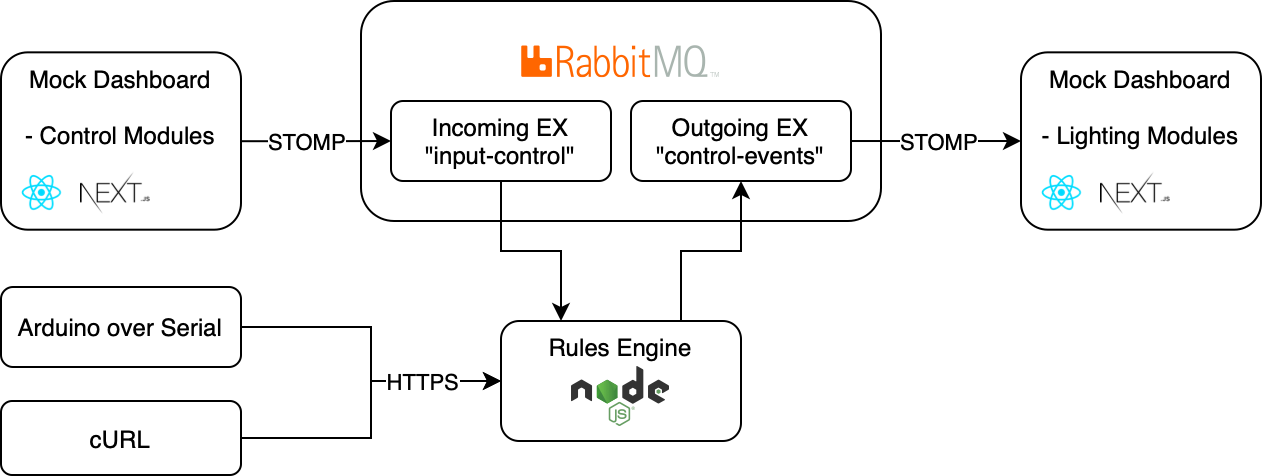
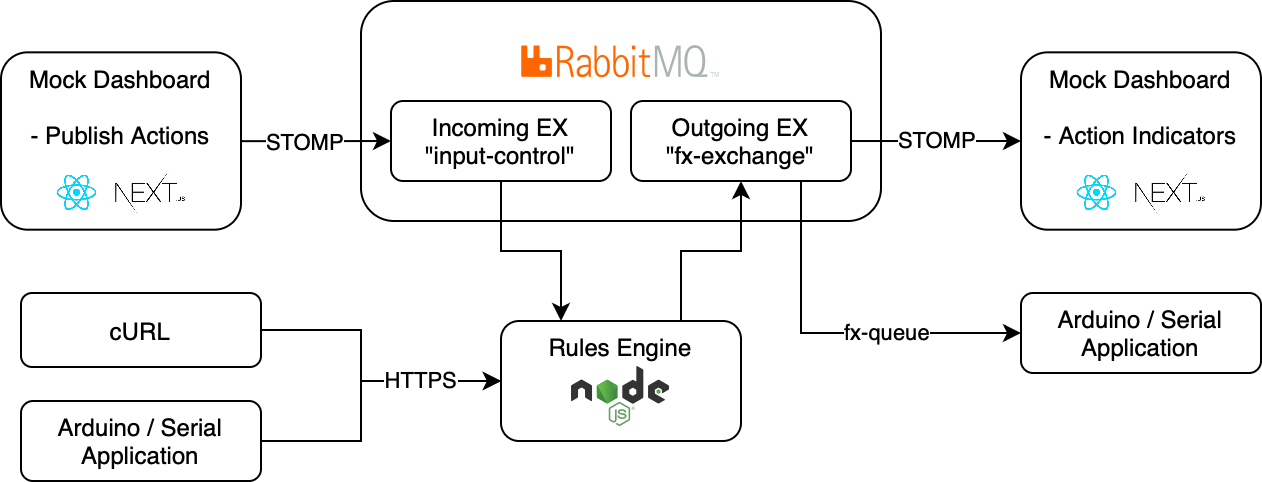
Updated docs

diff --git a/web-client/src/components/Publisher.tsx b/web-client/src/components/Publisher.tsx
@@ -65,7 +65,7 @@ const Publisher = () => {
   } else {
     connectStyle = 'bg-gray-400 border-gray-600 hover:bg-emerald-400'
   }
-  const actionStyle = 'inline p-2 mx-4 bg-white/100 hover:bg-white/90 border-gray-200 hover:border-emerald-300 border border-2 rounded-xl p-4'
+  const actionStyle = 'inline p-3 mx-2 bg-white/100 hover:bg-white/90 border-gray-200 hover:border-emerald-300 border border-2 rounded-xl active:bg-emerald-200'
   return (
     <div
       id="PublisherContainer"
@@ -81,7 +81,7 @@ const Publisher = () => {
       </button>
 }
       {wsConnected && 
-      <div className="inline ml-8 inline-grid grid-cols-3 gap-8">
+      <div className="inline ml-8 inline-grid grid-cols-3 gap-2">
         <button onClick={publishInteractive({deviceType:"taskButton", event: 'button-press', deviceId: "C0C0A"})} className={actionStyle + " text-lg"}>
             Activate <br />
             <span className="text-xs">(Collect Point)</span>

diff --git a/README.md b/README.md
@@ -1,11 +1,24 @@
+# Interactives Playground Demo
+- [Interactives Playground Demo](#interactives-playground-demo)
+- [Instructions for making this work together](#instructions-for-making-this-work-together)
+  - [Sample Video](#sample-video)
+- [Demo Components](#demo-components)
+  - [Web Interfaces](#web-interfaces)
+  - [Arduino + Serial Control](#arduino--serial-control)
+  - [HTTP (General)](#http-general)
+  - [Rules](#rules)
+  - [Other Ideas (Not implemented)](#other-ideas-not-implemented)
+- [Extending \& Building Something New](#extending--building-something-new)
+- [Bootstrapping](#bootstrapping)
+  - [Problems?](#problems)
+
 # Instructions for making this work together
 
-The concept behind this almalgamation of components is to prototype a simple message bus with a variety of inputs and outputs. With the correct Aruidno-based MCU (Adafruit Circuit Playground Express), a few separate inputs are available. Between the web interface and the CPE, a number of outputs and effects are possible.
+The concept behind this almalgamation of components is to prototype a simple message bus with a variety of inputs and outputs. This includes both web-based controls (the `web-client` project), and physical controls (an Arduino-based Adafruit Circuit Playground Express, controlled via a serial-based application in the terminal) to send messages to the rules engine vai AMQP and HTTP(S). In-turn, the rules engine decides what happens next, conditionally reformatting and sending messages to an effects exchange (`fx-exchange`). Both the web client and Circuit Playground Express are built to send and receive messages.
 
 The general systems architecture builds into a RabbitMQ (AMQP) message bus and a nodejs-based rules engine. Various types of controls feed into those, data is processed, and output to the appropriate endpoints.
 
 ![General network overview](/doc-images/general-overview.png)
-
 
 ...Filling out the specifics of this project, you can see the variety of inputs this simple system is capable of handling.
 
@@ -15,14 +28,14 @@ The general systems architecture builds into a RabbitMQ (AMQP) message bus and a
 
 ## Sample Video
 
-
 ![Working in action](/doc-images/demo.gif)
 
+# Demo Components
 ## Web Interfaces
 
 The web interface is a simple Nextjs + Tailwind application. When running the web portion of the project, there are some interfaces into the message bus system. These connections occur over STOMP (essentially amqp over web sockets), which is an interface directly to the RabbitMQ server.
 
-The main/home page is a mock system dashboard of sorts. There is a publisher, that sends messages into message bus, which gets picked up by the rules engine, handled, and sent back into the output queue. There is also a handful of client components - each with their own socket connection to the output exchange (they manage their own queues). When interacting with the web publisher, the messages pass through the whole system and finaly light up the various lights on the scree - no hand-wavey actions going on.
+The main/home page is a mock system dashboard of sorts. There is a publisher, that sends messages into message bus, which gets picked up by the rules engine, handled, and sent back into the output queue, assuming the prerequisite events. There is also a handful of client components - each with their own socket connection to the output exchange (they manage their own queues). When interacting with the web publisher, the messages pass through the whole system and finaly light up the various lights on the scree - no hand-wavey actions going on.
 
 ## Arduino + Serial Control
 
@@ -38,28 +51,34 @@ The first place to look is the target of `yarn start` - `MultiConnectManager.js`
 
 ## Other Ideas (Not implemented)
 
-* Serial client can also connect via AMQP to the inbound exchange
-* The rules engine can send messages over HTTP(S) over the outbound exchange (eg an external logging system)
+* Serial client can also connect via AMQP to the inbound exchange.
+* The rules engine can send messages over HTTP(S), eg an external logging system.
 * Come up with more physical interaction inputs, and outputs (other sensors, audio, video, etc)
 * Create a unique input device for some kind of interactive artwork.
-* Allow the serial application to set data on the Circuit Playground Express (change lights, play sound?)
+* Additional web-based demos, for example a playable mini game or mocked interactive experience
+* Inspect and act upon UDP traffic (eg devices)
 
+# Extending & Building Something New
+
+This repo is meant to be a starting point for bigger builds. Take the ideas, concepts, and even code snippits to help you incrementally build something ideal for your project. There are a few things worth considering as you get going
+
+* Dockerise the various components
+* If not self-hosting RMQ, look into various hosted options online. These are good for getting started and abstract away the management details.
+* Work out the rules and logic of the overal experience before you start diving too deep into code. A little planning can go a long way.
 
 # Bootstrapping
 
 Below are the feature checkpoints with the requirements to get the system running together.
 
-### Feb, 2022
 1. You need to get RabbitMQ going with WebSTOMP support. It's basically one extra setting that needs to be added to the Valtech_SD RMQ docker image once it's bootet. This Repo has it already enabled...
    1. Inside the `rabbit` directory, run `docker-compose up --build -d` to run it in the background (daemon).
 2. In `rules-engine` run `yarn start` to get the setup that takes HTTP requests and publishes them as AMQP messages to the `control-events` exchange
-3. ..and in `web-client` run `yarn dev` . This is a Next.js app and contains an HTML frontend to both push some messages and show that messages are going through the message bus (it subscribes to the `TOPIC` exchange as a means to mock physical devices)
-4. In `serial/circuitPlayground` make sure to install the `eventEmitter.ino` arduino sketch to your Adafruit Circuit Python Express device. (Any other device will need modification - the point is that there are two momentary button and a switch that determine the end effect in the message bus - as if interacting with 2-4 different types of show-control interactives).
-5. finally, also part of the playground(`serial/circuitPlayground`) run `node sample.js`
+3. ..and in `web-client` run `yarn dev` . This is a Next.js app and contains an HTML frontend to both push some messages and show that messages are going through the message bus. It publishes to the `input-control` echange and subscribes to `fx-exchange` via STOMP.
+4. In `serial/circuitPlayground` make sure to install the `eventEmitter.ino` arduino sketch to your Adafruit Circuit Python Express device. (Any other device will need significant modification - the point is that there are two momentary button and a switch that determine the end effect in the message bus - as if interacting with 2-4 different types of show-control interactives).
+5. finally, also part of the playground(`serial/circuitPlayground`) run `node sample.js`. This connects to the message bus and communicates with the Arduino device over a serial connection.
 6. In a broswer, open [https://localhost:3000](https://localhost:3000) to see the web-based effects dashboard.
 
-By this point, everything should be running. Press the buttons on the Circuit Playground Express, and try flipping the switch. Assuming all is well, you'll see the `sample.js` script output some simple jSON showing the button and switch states. The web browser will start displaying some colors and animations based on the combination of pressed button and switch value on the ardino.
-
+By this point, everything should be running. Press the buttons on the Circuit Playground Express. Assuming all is well, you'll see the `sample.js` script output some simple jSON showing the button and switch states. The web browser will start displaying some colors and animations based on the combination of pressed buttons pressed on the ardino.
 
 ## Problems?
 
